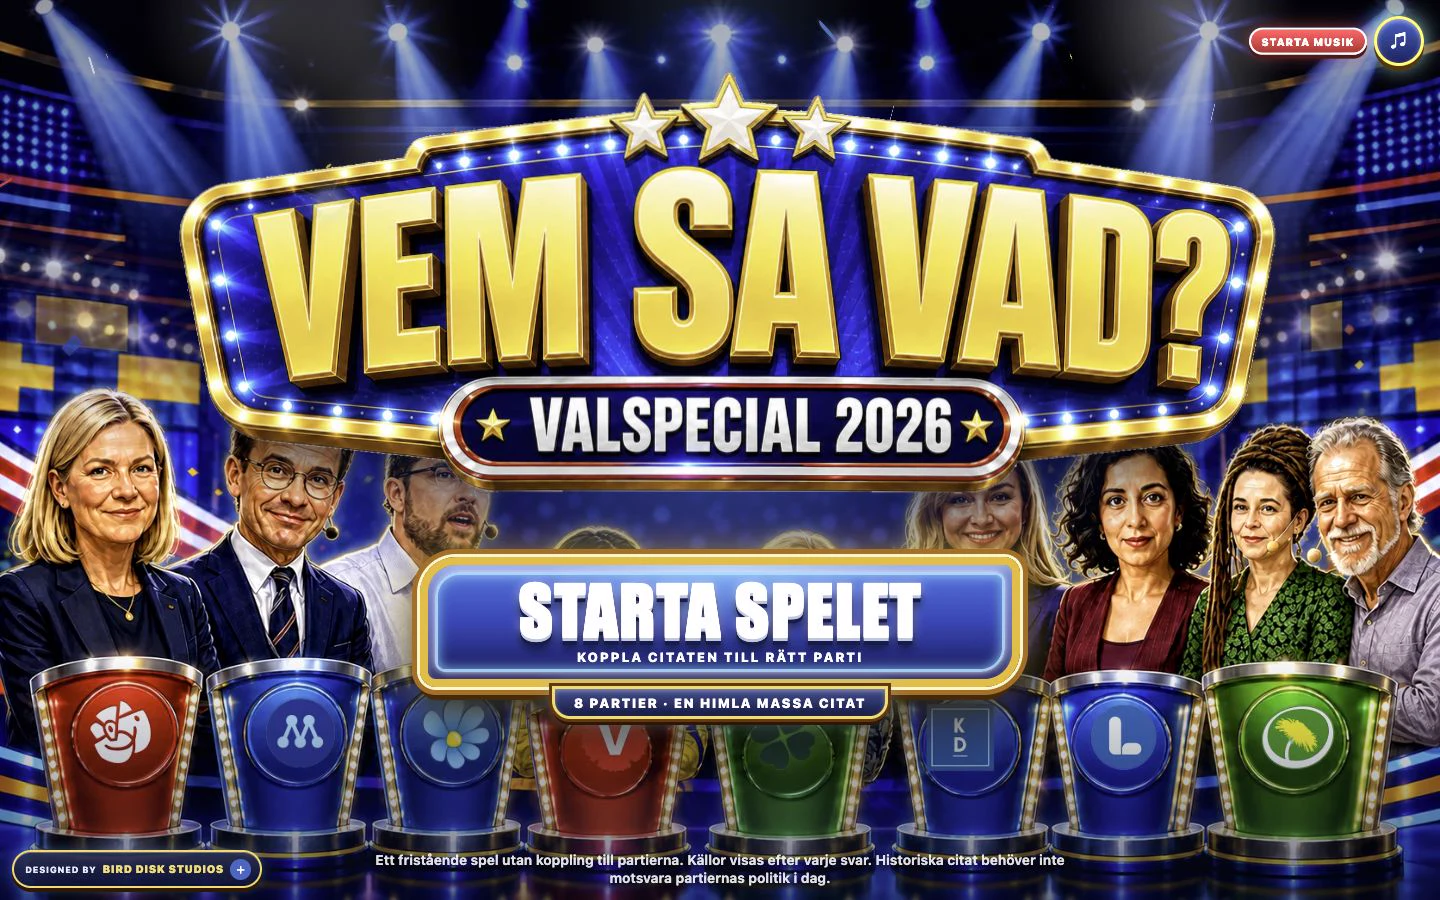
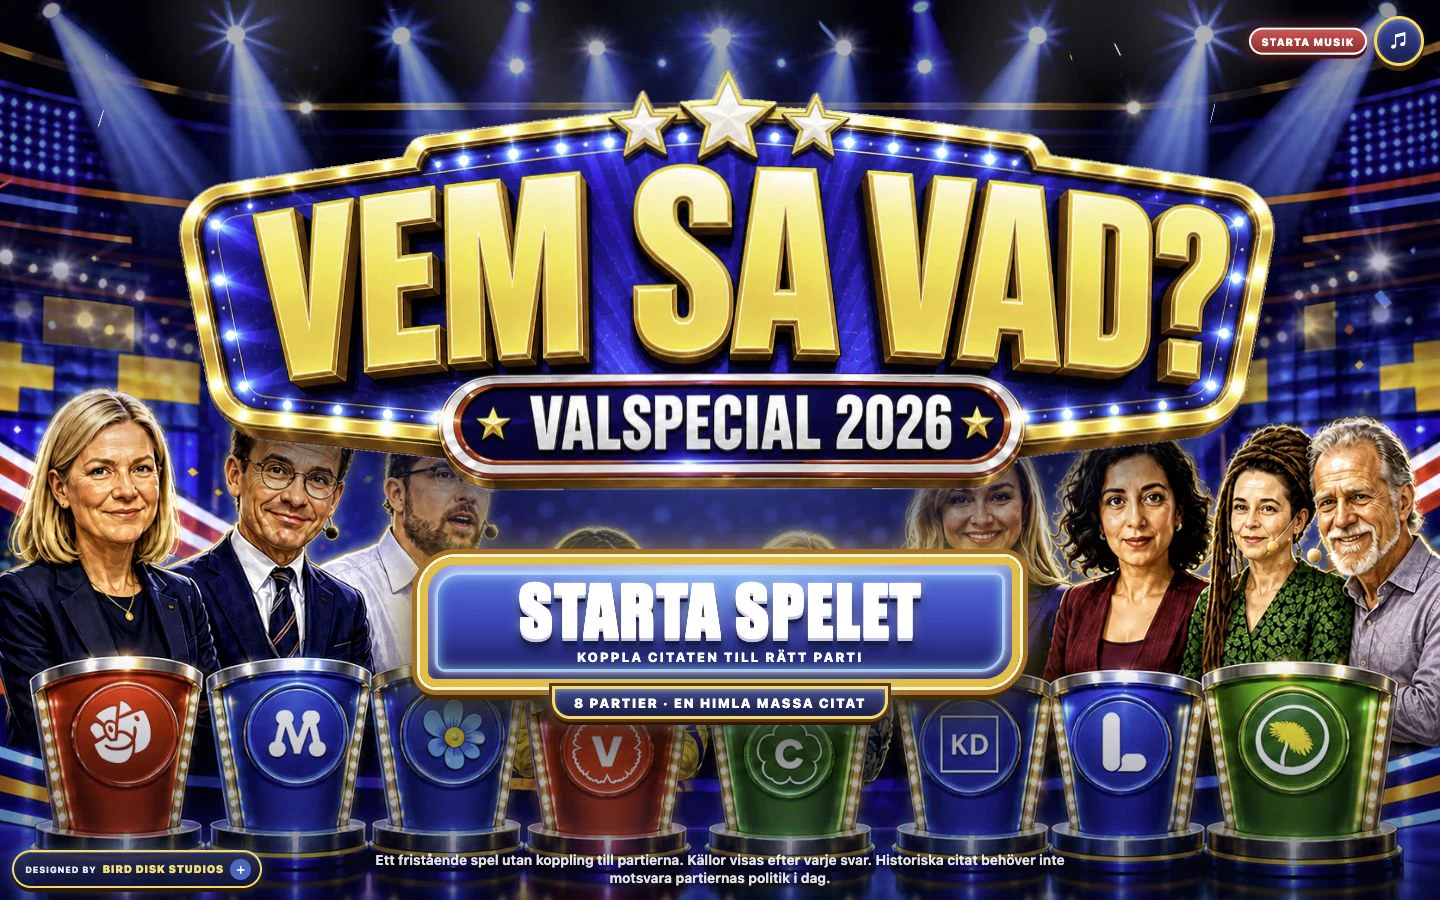
Restore original stage and correct only the S rose

diff --git a/app/globals.css b/app/globals.css
@@ -837,7 +837,7 @@ summary:focus-visible {
 
 .intro-stage-lineup {
   z-index: 4;
-  background: url('/start-stage-official.webp') center / cover no-repeat;
+  background: url('/start-stage-s-rose.webp') center / cover no-repeat;
   background-position: center bottom;
   filter:
     saturate(1.1)
